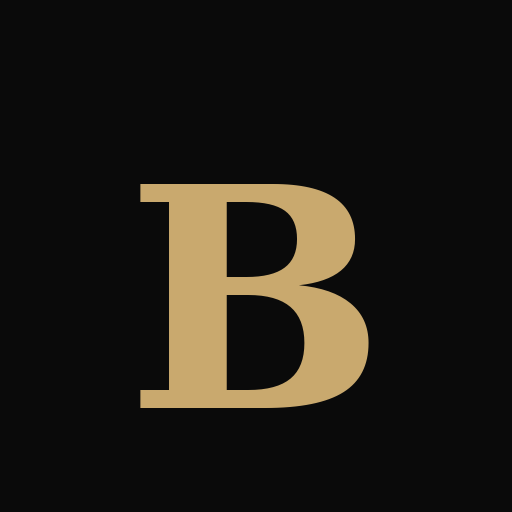
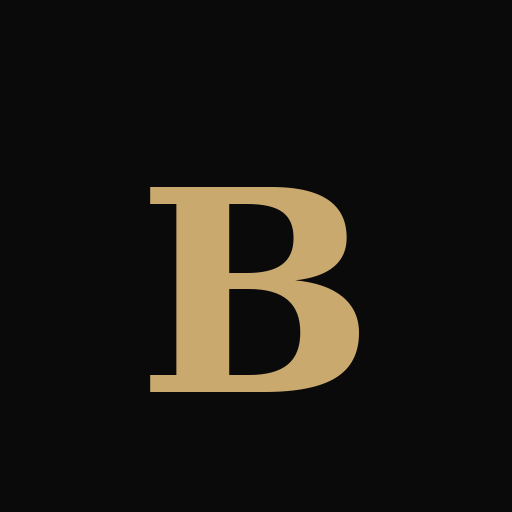
fix: PWA mejorada - iconos completos + manifest + SW robusto

Changed region(s): [[0.25, 0.3438, 0.7188, 0.8125], [0.5938, 0.375, 0.7188, 0.5938], [0.5312, 0.4062, 0.5938, 0.5312]]

diff --git a/sw.js b/sw.js
@@ -1,20 +1,50 @@
-const CACHE_NAME = 'botox-v1';
+const CACHE_NAME = 'botox-v2';
 const urlsToCache = [
   '/',
   '/index.html',
-  '/manifest.json'
+  '/manifest.json',
+  '/icon-192.png',
+  '/icon-512.png',
+  '/apple-touch-icon.png'
 ];
 
+// Install event
 self.addEventListener('install', event => {
+  self.skipWaiting();
   event.waitUntil(
     caches.open(CACHE_NAME)
-      .then(cache => cache.addAll(urlsToCache))
+      .then(cache => {
+        console.log('Cache opened');
+        return cache.addAll(urlsToCache);
+      })
   );
 });
 
+// Activate event
+self.addEventListener('activate', event => {
+  event.waitUntil(
+    caches.keys().then(cacheNames => {
+      return Promise.all(
+        cacheNames.map(cacheName => {
+          if (cacheName !== CACHE_NAME) {
+            return caches.delete(cacheName);
+          }
+        })
+      );
+    })
+  );
+  return self.clients.claim();
+});
+
+// Fetch event
 self.addEventListener('fetch', event => {
   event.respondWith(
     caches.match(event.request)
-      .then(response => response || fetch(event.request))
+      .then(response => {
+        if (response) {
+          return response;
+        }
+        return fetch(event.request);
+      })
   );
 });
